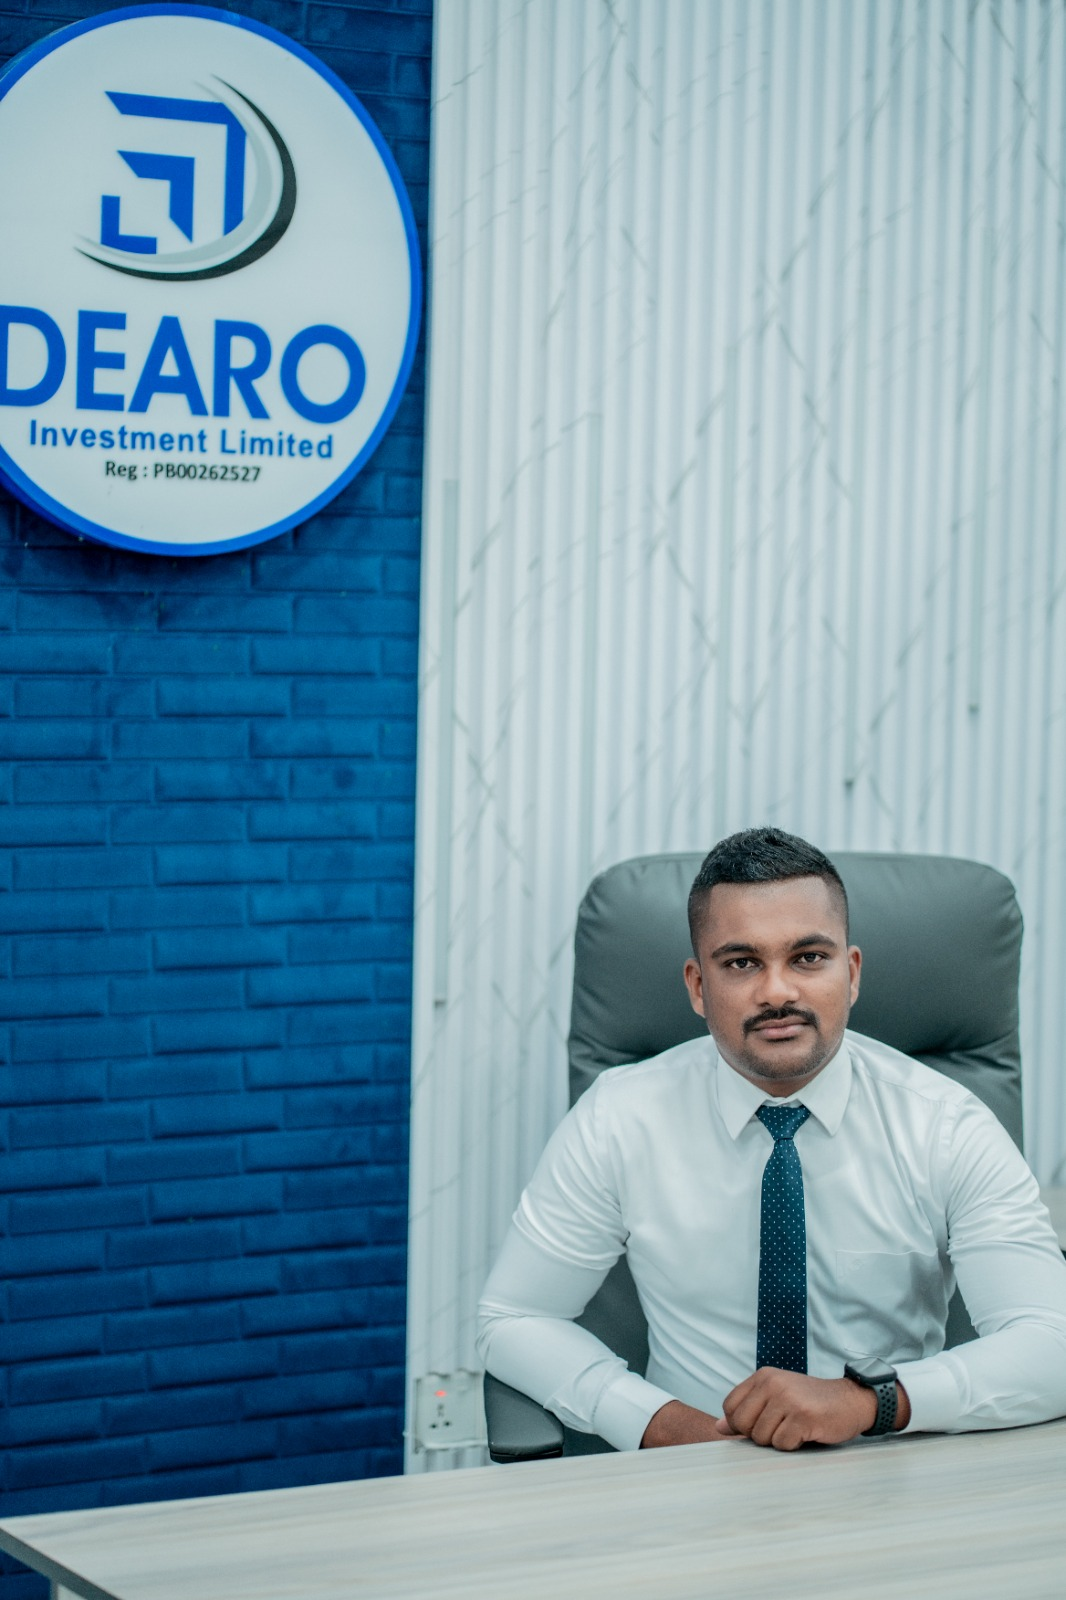
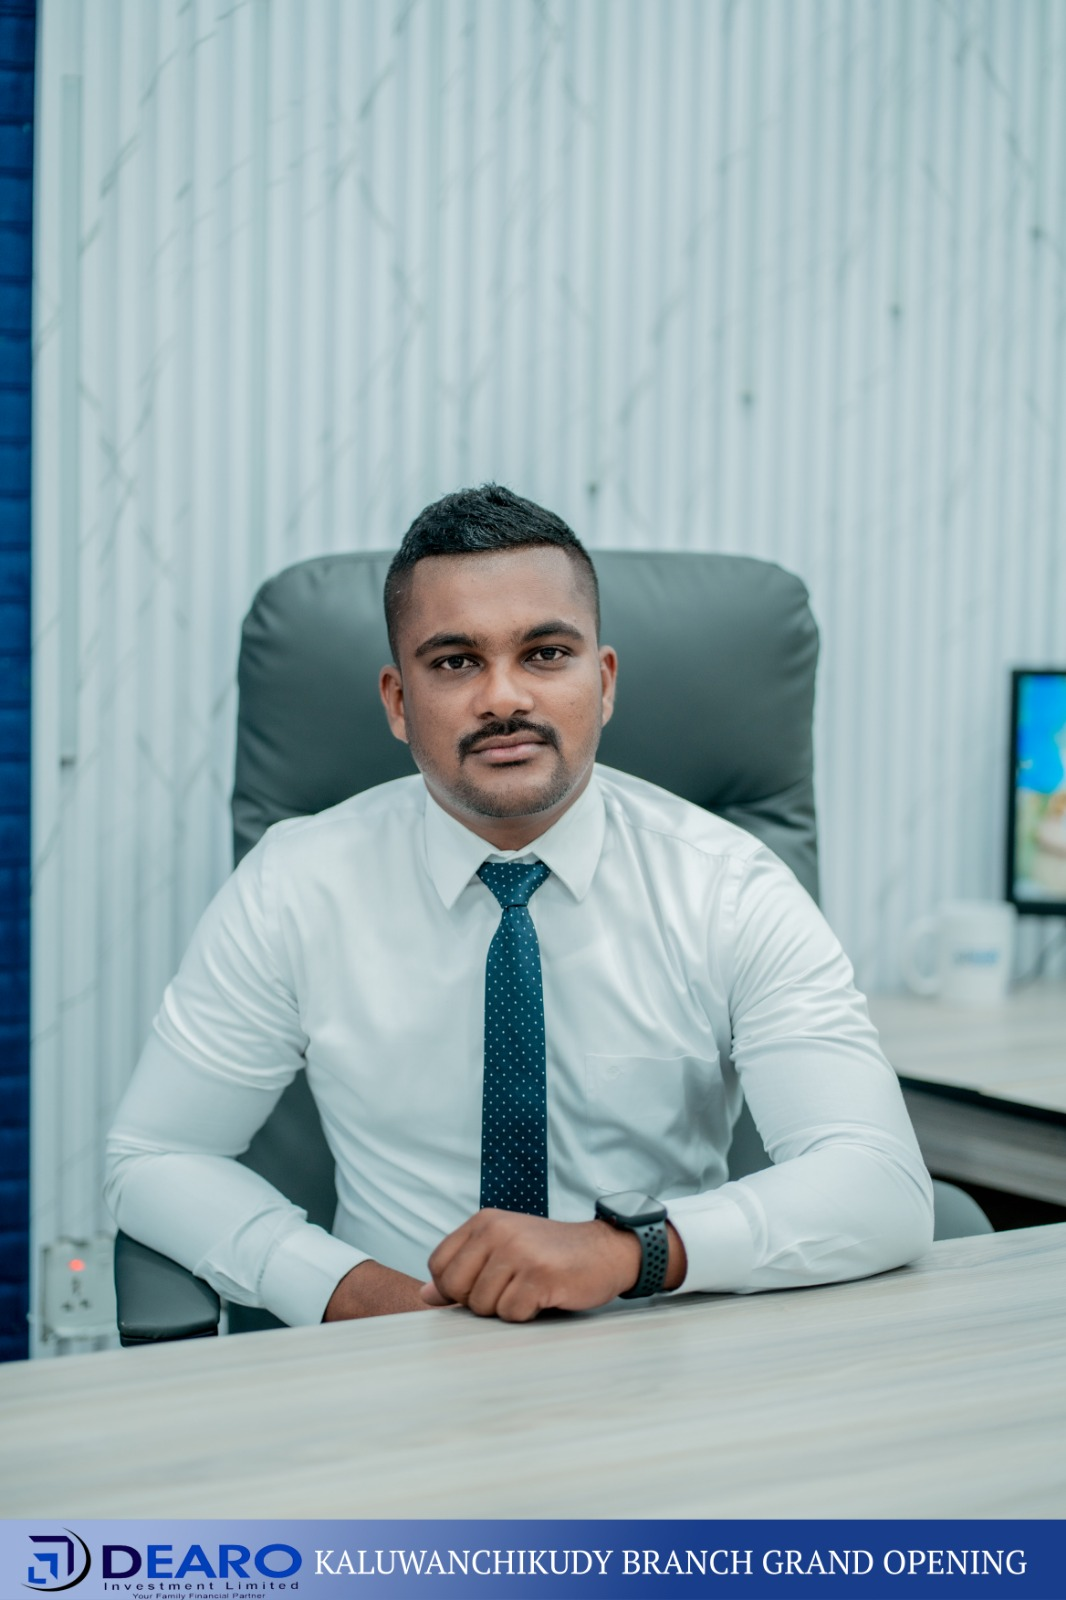
update bord

diff --git a/app/board/page.tsx b/app/board/page.tsx
@@ -5,12 +5,12 @@ export default function BoardMembersPage() {
     {
       name: "Mr. Asitha Suranjith",
       title: "Head Of Investment and Treasury",
-      img: "/assests/management/team-asitha-suranjith.jpg",
+      img: "/assests/management/asith.jpg",
     },
     {
       name: "Mr. Nalin Kumara",
       title: "Chief Manager – Branch Operations",
-      img: "/assests/management/team-nalin.jpg",
+      img: "/assests/management/nalin.png",
     },
      {
       name: "Mr. Dilshan Nuwantha",
@@ -35,7 +35,7 @@ export default function BoardMembersPage() {
     {
       name: "Mr. Deepal Piris",
       title: "Head Of Finance",
-      img: "/assests/management/deepal.jpeg",
+      img: "/assests/management/deepal.jpg",
     },
    
     {
@@ -46,19 +46,19 @@ export default function BoardMembersPage() {
     {
       name: "Mr. Rex",
       title: "Senior Manager - North & East Region",
-      img: "/assests/management/rex.jpg",
+      img: "/assests/management/rex1.jpg",
     },
     
     {
       name: "Mr. Sumith Weerawardene",
       title: "Zonal Manager- East Region",
-      img: "/assests/management/sumith.jpeg",
+      img: "/assests/management/sumith.png",
     },
     
     {
       name: "Mr. Mohomed Nifri",
       title: "Manager Branch Operation and Development",
-      img: "/assests/management/M.A.M Nifri Manager Branch Operation & Development.jpeg",
+      img: "/assests/management/nifri.jpg",
     },
     
     {

diff --git a/app/management/page.tsx b/app/management/page.tsx
@@ -7,28 +7,28 @@ export default function ManagementPage() {
     {
       name: "Mr. Prasanna Sanjeewa Ranasinghe",
       title: "Excicutive Director / Chief Executive Officer",
-      img: "/assests/team-prasanna.jpg",
+      img: "/assests/derector/prasanna 1.png",
     },
     {
       name: "Mr. Niranjan Warnasooriya",
       title: "Non Board Director / Deputy Chief Executive Officer",
-      img: "/assests/team-niranjan-warnasooriya.jpg",
+      img: "/assests/derector/nerangen.png",
     },
     {
       name: "Mr. Upul Edirisooriya",
       title: "Non Independent Non Executive Director",
-      img: "/assests/team-upul.jpg",
+      img: "/assests/derector/upul.png",
     },
    
-    // {
-    //   name: "Mr. G Dananjaya",
-    //   title: "Chief Operating Officerr",
-    //   img: "/assests/b.png",
-    // },
+    {
+      name: "Mr. Arun Kumar",
+      title: "Chief Operating Officer",
+      img: "/assests/derector/arun.jpg",
+    },
     {
       name: "Mr. Tharindu Dananjaya",
       title: "Non Board Director/ Chief Information Officer",
-      img: "/assests/team-tharindu.jpg",
+      img: "/assests/derector/tharindu.png",
     },
   ];
 
